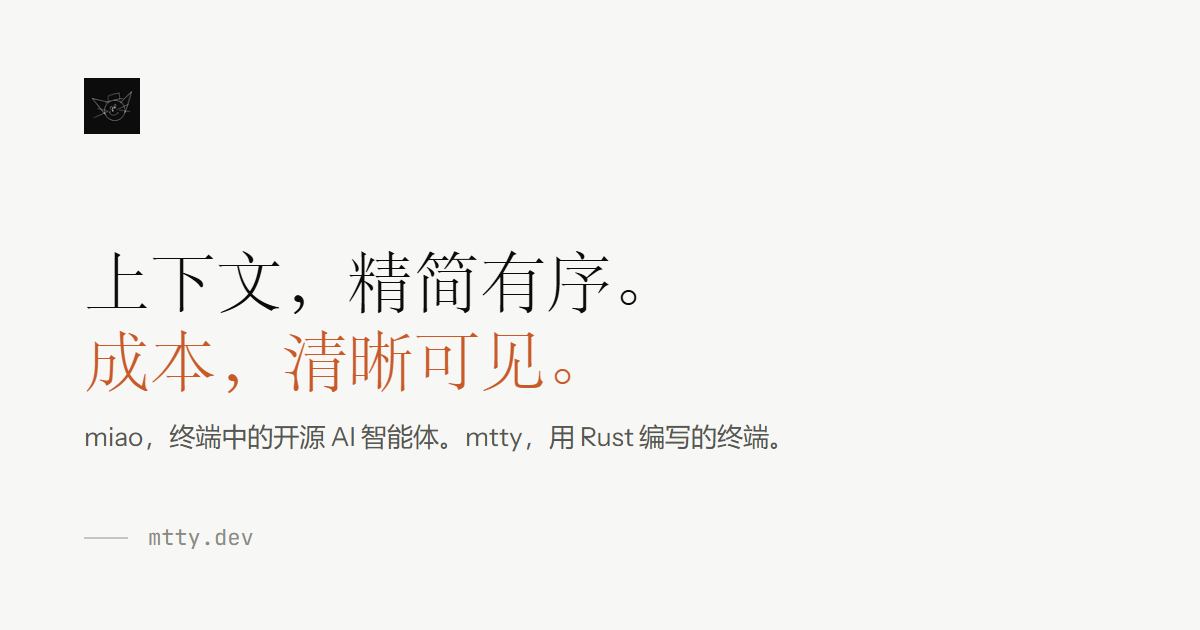
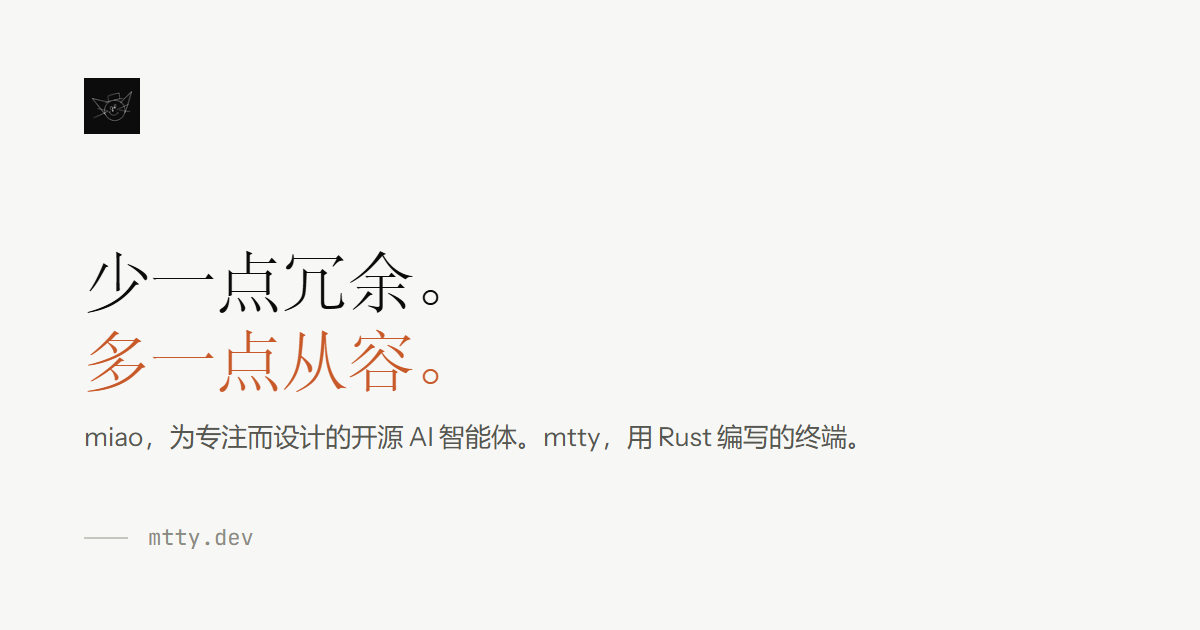
feat(site): rewrite miao copy in a brand voice
Replace the technical, symmetrical headlines with short brand statements: less noise, more composure, one line to begin. Keep the verified mechanisms in the supporting copy, simplify the footer line to 代理与终端，生而开源。and regenerate the social cards.

diff --git a/scripts/og.ts b/scripts/og.ts
@@ -101,40 +101,40 @@ const cards: Card[] = [
     lang: "en",
     mark: siteMark,
     name: "",
-    headline: "Context, distilled.",
-    accent: "Cost, transparent.",
+    headline: "Less noise.",
+    accent: "More composure.",
     ink: "var(--miao-2)",
-    sub: "miao, an open-source AI agent. mtty, a terminal written in Rust.",
+    sub: "miao, an open-source AI agent designed for focus. mtty, a terminal written in Rust.",
   },
   {
     file: "home-zh.png",
     lang: "zh",
     mark: siteMark,
     name: "",
-    headline: "上下文，精简有序。",
-    accent: "成本，清晰可见。",
+    headline: "少一点冗余。",
+    accent: "多一点从容。",
     ink: "var(--miao-2)",
-    sub: "miao，终端中的开源 AI 智能体。mtty，用 Rust 编写的终端。",
+    sub: "miao，为专注而设计的开源 AI 智能体。mtty，用 Rust 编写的终端。",
   },
   {
     file: "miao-en.png",
     lang: "en",
     mark: miaoMark,
     name: "miao",
-    headline: "Context, distilled.",
-    accent: "Cost, transparent.",
+    headline: "Less noise.",
+    accent: "More composure.",
     ink: "var(--miao-2)",
-    sub: "Stable context prefixes, reusable provider caches and a visible bill, in a single binary.",
+    sub: "A leaner context, a transparent bill, and a one-line install.",
   },
   {
     file: "miao-zh.png",
     lang: "zh",
     mark: miaoMark,
     name: "miao",
-    headline: "上下文精简，",
-    accent: "成本透明。",
+    headline: "少一点冗余，",
+    accent: "多一点从容。",
     ink: "var(--miao-2)",
-    sub: "稳定上下文前缀、可复用的供应商缓存与清晰可见的成本，尽在单个二进制。",
+    sub: "上下文精简，开销透明，安装只需一行。",
   },
   {
     file: "mtty-en.png",
